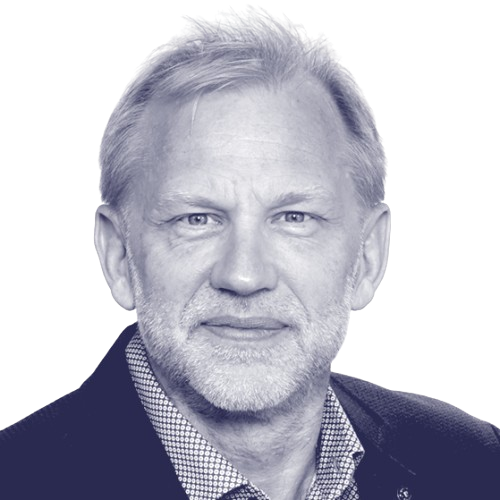
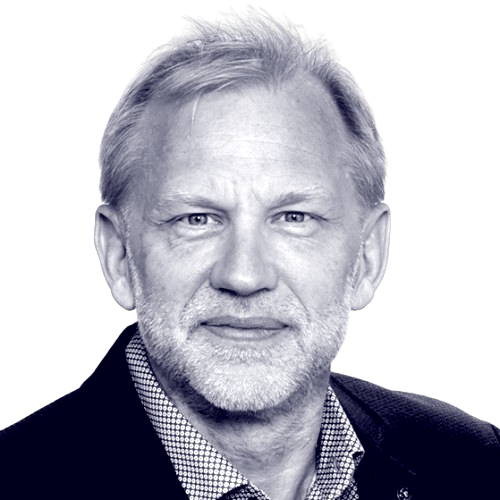
Replace Alexander's photo; shift team blobs down-left for Marion, Alexander and Doris
Claude-Session: https://claude.ai/code/session_01FksWvoVX87Zi3gCdiDvZYQ

diff --git a/index.html b/index.html
@@ -257,21 +257,21 @@
       </div>
       <div class="team-member">
         <div class="team-member__figure">
-          <svg viewBox="0 0 700 588" aria-hidden="true" focusable="false"><path fill="#46cbaf" d="M 518.63,260.73 C 518.29,264.82 517.70,268.85 517.47,272.92 C 517.23,277.00 517.22,281.05 517.22,285.18 C 517.23,289.31 517.60,293.52 517.49,297.70 C 517.38,301.88 517.34,306.18 516.54,310.25 C 515.75,314.33 514.41,318.35 512.71,322.15 C 511.02,325.96 508.54,329.50 506.39,333.07 C 504.24,336.65 501.87,340.06 499.82,343.62 C 497.77,347.18 496.10,350.88 494.09,354.42 C 492.09,357.97 490.18,361.60 487.80,364.89 C 485.41,368.18 482.54,371.16 479.77,374.15 C 477.01,377.13 473.94,379.82 471.20,382.78 C 468.46,385.73 465.98,388.86 463.32,391.87 C 460.67,394.89 458.17,398.09 455.26,400.86 C 452.36,403.63 449.10,406.05 445.89,408.47 C 442.69,410.90 439.21,412.91 436.03,415.39 C 432.86,417.86 429.89,420.56 426.84,423.30 C 423.79,426.05 420.94,429.20 417.74,431.84 C 414.54,434.48 411.13,436.91 407.62,439.14 C 404.12,441.38 400.38,443.15 396.74,445.27 C 393.09,447.39 389.49,449.66 385.78,451.88 C 382.07,454.10 378.39,456.74 374.47,458.58 C 370.55,460.42 366.42,461.99 362.23,462.89 C 358.05,463.80 353.65,463.86 349.35,464.01 C 345.05,464.16 340.73,463.84 336.45,463.79 C 332.17,463.73 327.92,463.76 323.67,463.67 C 319.42,463.57 315.17,463.51 310.93,463.22 C 306.69,462.93 302.47,462.45 298.25,461.91 C 294.04,461.37 289.84,460.74 285.66,459.98 C 281.48,459.21 277.29,458.42 273.19,457.34 C 269.08,456.26 265.01,454.97 261.04,453.50 C 257.06,452.03 253.16,450.29 249.32,448.51 C 245.48,446.73 241.69,444.83 237.99,442.81 C 234.29,440.78 230.65,438.65 227.11,436.36 C 223.58,434.08 220.19,431.59 216.81,429.12 C 213.43,426.65 210.13,424.10 206.84,421.54 C 203.55,418.98 200.20,416.50 197.06,413.77 C 193.93,411.05 190.83,408.23 188.02,405.19 C 185.20,402.14 182.64,398.81 180.16,395.49 C 177.68,392.18 175.38,388.72 173.11,385.29 C 170.83,381.85 168.56,378.45 166.52,374.91 C 164.48,371.37 162.59,367.73 160.89,364.04 C 159.18,360.34 157.83,356.48 156.28,352.75 C 154.74,349.03 153.25,345.34 151.62,341.69 C 149.99,338.04 148.06,334.55 146.50,330.88 C 144.94,327.21 143.40,323.49 142.26,319.68 C 141.11,315.86 140.47,311.88 139.64,307.98 C 138.81,304.08 138.18,300.17 137.27,296.29 C 136.37,292.40 135.13,288.58 134.21,284.66 C 133.28,280.75 132.29,276.80 131.72,272.81 C 131.14,268.82 131.03,264.77 130.73,260.73 C 130.44,256.69 130.30,252.65 129.97,248.54 C 129.64,244.44 128.88,240.26 128.76,236.11 C 128.64,231.96 128.53,227.69 129.26,223.64 C 129.98,219.59 131.57,215.65 133.12,211.80 C 134.66,207.96 136.88,204.34 138.54,200.58 C 140.20,196.82 141.65,193.05 143.10,189.24 C 144.55,185.42 145.66,181.47 147.23,177.70 C 148.79,173.93 150.58,170.24 152.50,166.63 C 154.42,163.02 156.62,159.57 158.74,156.06 C 160.86,152.56 162.92,149.00 165.21,145.60 C 167.50,142.20 169.84,138.78 172.49,135.66 C 175.13,132.53 178.16,129.70 181.10,126.85 C 184.05,124.00 187.17,121.35 190.15,118.55 C 193.14,115.75 195.95,112.76 199.00,110.03 C 202.06,107.31 205.16,104.57 208.50,102.22 C 211.85,99.86 215.55,98.00 219.07,95.91 C 222.59,93.82 226.21,91.98 229.63,89.66 C 233.04,87.35 236.18,84.53 239.56,82.00 C 242.94,79.46 246.25,76.53 249.91,74.43 C 253.57,72.34 257.53,70.75 261.51,69.43 C 265.50,68.11 269.72,67.52 273.81,66.52 C 277.89,65.53 281.96,64.59 286.04,63.47 C 290.12,62.35 294.16,60.97 298.29,59.80 C 302.42,58.64 306.59,57.48 310.82,56.50 C 315.05,55.52 319.35,54.54 323.67,53.93 C 327.99,53.32 332.42,52.65 336.75,52.83 C 341.08,53.01 345.47,53.76 349.66,55.03 C 353.84,56.30 357.86,58.66 361.87,60.46 C 365.88,62.27 369.71,64.37 373.71,65.86 C 377.70,67.34 381.84,68.07 385.85,69.35 C 389.87,70.63 394.05,71.60 397.79,73.52 C 401.54,75.43 404.98,78.19 408.32,80.85 C 411.66,83.50 414.58,86.83 417.82,89.46 C 421.07,92.10 424.45,94.32 427.79,96.66 C 431.13,99.01 434.76,100.94 437.89,103.52 C 441.02,106.10 443.81,109.18 446.57,112.17 C 449.33,115.16 451.60,118.62 454.43,121.48 C 457.27,124.35 460.43,126.78 463.56,129.36 C 466.70,131.95 470.42,134.09 473.24,136.99 C 476.06,139.90 478.47,143.27 480.48,146.80 C 482.48,150.33 483.50,154.53 485.28,158.17 C 487.07,161.81 488.84,165.32 491.17,168.64 C 493.51,171.96 496.76,174.80 499.29,178.09 C 501.83,181.38 504.58,184.71 506.38,188.39 C 508.17,192.07 509.07,196.18 510.05,200.17 C 511.02,204.16 511.34,208.32 512.21,212.32 C 513.08,216.32 514.25,220.21 515.28,224.18 C 516.32,228.15 517.71,232.09 518.42,236.13 C 519.13,240.17 519.49,244.31 519.53,248.41 C 519.57,252.51 518.98,256.64 518.63,260.73 Z"/></svg>
+          <svg viewBox="0 0 700 588" aria-hidden="true" focusable="false"><path fill="#46cbaf" transform="translate(-24 24)" d="M 518.63,260.73 C 518.29,264.82 517.70,268.85 517.47,272.92 C 517.23,277.00 517.22,281.05 517.22,285.18 C 517.23,289.31 517.60,293.52 517.49,297.70 C 517.38,301.88 517.34,306.18 516.54,310.25 C 515.75,314.33 514.41,318.35 512.71,322.15 C 511.02,325.96 508.54,329.50 506.39,333.07 C 504.24,336.65 501.87,340.06 499.82,343.62 C 497.77,347.18 496.10,350.88 494.09,354.42 C 492.09,357.97 490.18,361.60 487.80,364.89 C 485.41,368.18 482.54,371.16 479.77,374.15 C 477.01,377.13 473.94,379.82 471.20,382.78 C 468.46,385.73 465.98,388.86 463.32,391.87 C 460.67,394.89 458.17,398.09 455.26,400.86 C 452.36,403.63 449.10,406.05 445.89,408.47 C 442.69,410.90 439.21,412.91 436.03,415.39 C 432.86,417.86 429.89,420.56 426.84,423.30 C 423.79,426.05 420.94,429.20 417.74,431.84 C 414.54,434.48 411.13,436.91 407.62,439.14 C 404.12,441.38 400.38,443.15 396.74,445.27 C 393.09,447.39 389.49,449.66 385.78,451.88 C 382.07,454.10 378.39,456.74 374.47,458.58 C 370.55,460.42 366.42,461.99 362.23,462.89 C 358.05,463.80 353.65,463.86 349.35,464.01 C 345.05,464.16 340.73,463.84 336.45,463.79 C 332.17,463.73 327.92,463.76 323.67,463.67 C 319.42,463.57 315.17,463.51 310.93,463.22 C 306.69,462.93 302.47,462.45 298.25,461.91 C 294.04,461.37 289.84,460.74 285.66,459.98 C 281.48,459.21 277.29,458.42 273.19,457.34 C 269.08,456.26 265.01,454.97 261.04,453.50 C 257.06,452.03 253.16,450.29 249.32,448.51 C 245.48,446.73 241.69,444.83 237.99,442.81 C 234.29,440.78 230.65,438.65 227.11,436.36 C 223.58,434.08 220.19,431.59 216.81,429.12 C 213.43,426.65 210.13,424.10 206.84,421.54 C 203.55,418.98 200.20,416.50 197.06,413.77 C 193.93,411.05 190.83,408.23 188.02,405.19 C 185.20,402.14 182.64,398.81 180.16,395.49 C 177.68,392.18 175.38,388.72 173.11,385.29 C 170.83,381.85 168.56,378.45 166.52,374.91 C 164.48,371.37 162.59,367.73 160.89,364.04 C 159.18,360.34 157.83,356.48 156.28,352.75 C 154.74,349.03 153.25,345.34 151.62,341.69 C 149.99,338.04 148.06,334.55 146.50,330.88 C 144.94,327.21 143.40,323.49 142.26,319.68 C 141.11,315.86 140.47,311.88 139.64,307.98 C 138.81,304.08 138.18,300.17 137.27,296.29 C 136.37,292.40 135.13,288.58 134.21,284.66 C 133.28,280.75 132.29,276.80 131.72,272.81 C 131.14,268.82 131.03,264.77 130.73,260.73 C 130.44,256.69 130.30,252.65 129.97,248.54 C 129.64,244.44 128.88,240.26 128.76,236.11 C 128.64,231.96 128.53,227.69 129.26,223.64 C 129.98,219.59 131.57,215.65 133.12,211.80 C 134.66,207.96 136.88,204.34 138.54,200.58 C 140.20,196.82 141.65,193.05 143.10,189.24 C 144.55,185.42 145.66,181.47 147.23,177.70 C 148.79,173.93 150.58,170.24 152.50,166.63 C 154.42,163.02 156.62,159.57 158.74,156.06 C 160.86,152.56 162.92,149.00 165.21,145.60 C 167.50,142.20 169.84,138.78 172.49,135.66 C 175.13,132.53 178.16,129.70 181.10,126.85 C 184.05,124.00 187.17,121.35 190.15,118.55 C 193.14,115.75 195.95,112.76 199.00,110.03 C 202.06,107.31 205.16,104.57 208.50,102.22 C 211.85,99.86 215.55,98.00 219.07,95.91 C 222.59,93.82 226.21,91.98 229.63,89.66 C 233.04,87.35 236.18,84.53 239.56,82.00 C 242.94,79.46 246.25,76.53 249.91,74.43 C 253.57,72.34 257.53,70.75 261.51,69.43 C 265.50,68.11 269.72,67.52 273.81,66.52 C 277.89,65.53 281.96,64.59 286.04,63.47 C 290.12,62.35 294.16,60.97 298.29,59.80 C 302.42,58.64 306.59,57.48 310.82,56.50 C 315.05,55.52 319.35,54.54 323.67,53.93 C 327.99,53.32 332.42,52.65 336.75,52.83 C 341.08,53.01 345.47,53.76 349.66,55.03 C 353.84,56.30 357.86,58.66 361.87,60.46 C 365.88,62.27 369.71,64.37 373.71,65.86 C 377.70,67.34 381.84,68.07 385.85,69.35 C 389.87,70.63 394.05,71.60 397.79,73.52 C 401.54,75.43 404.98,78.19 408.32,80.85 C 411.66,83.50 414.58,86.83 417.82,89.46 C 421.07,92.10 424.45,94.32 427.79,96.66 C 431.13,99.01 434.76,100.94 437.89,103.52 C 441.02,106.10 443.81,109.18 446.57,112.17 C 449.33,115.16 451.60,118.62 454.43,121.48 C 457.27,124.35 460.43,126.78 463.56,129.36 C 466.70,131.95 470.42,134.09 473.24,136.99 C 476.06,139.90 478.47,143.27 480.48,146.80 C 482.48,150.33 483.50,154.53 485.28,158.17 C 487.07,161.81 488.84,165.32 491.17,168.64 C 493.51,171.96 496.76,174.80 499.29,178.09 C 501.83,181.38 504.58,184.71 506.38,188.39 C 508.17,192.07 509.07,196.18 510.05,200.17 C 511.02,204.16 511.34,208.32 512.21,212.32 C 513.08,216.32 514.25,220.21 515.28,224.18 C 516.32,228.15 517.71,232.09 518.42,236.13 C 519.13,240.17 519.49,244.31 519.53,248.41 C 519.57,252.51 518.98,256.64 518.63,260.73 Z"/></svg>
           <img src="assets/team-marion.png" alt="Marion Kammerer" width="500" height="500" loading="lazy">
         </div>
         <p class="team-member__name">Marion Kammerer</p>
       </div>
       <div class="team-member">
         <div class="team-member__figure">
-          <svg viewBox="0 0 700 588" aria-hidden="true" focusable="false"><path fill="#46cbaf" d="M 519.02,260.73 C 519.27,264.81 519.21,268.94 518.86,273.01 C 518.52,277.08 517.66,281.12 516.95,285.15 C 516.25,289.17 515.38,293.15 514.62,297.16 C 513.87,301.16 513.32,305.21 512.42,309.19 C 511.53,313.17 510.62,317.19 509.27,321.04 C 507.93,324.88 506.17,328.62 504.34,332.26 C 502.52,335.91 500.36,339.41 498.31,342.91 C 496.25,346.41 494.15,349.86 492.00,353.27 C 489.85,356.68 487.66,360.05 485.40,363.37 C 483.14,366.68 480.77,369.91 478.44,373.18 C 476.11,376.44 473.81,379.72 471.43,382.97 C 469.05,386.21 466.75,389.56 464.17,392.67 C 461.59,395.77 458.86,398.80 455.95,401.59 C 453.04,404.39 449.84,406.90 446.69,409.44 C 443.55,411.98 440.28,414.34 437.08,416.82 C 433.88,419.30 430.71,421.82 427.50,424.33 C 424.28,426.85 421.08,429.41 417.78,431.91 C 414.48,434.40 411.15,436.92 407.69,439.29 C 404.24,441.65 400.74,444.06 397.06,446.10 C 393.39,448.13 389.56,449.97 385.65,451.49 C 381.74,453.01 377.64,454.03 373.60,455.19 C 369.56,456.36 365.47,457.27 361.39,458.47 C 357.32,459.68 353.28,461.19 349.15,462.41 C 345.01,463.63 340.82,465.05 336.57,465.82 C 332.33,466.58 327.98,466.86 323.67,466.98 C 319.36,467.10 315.04,466.69 310.72,466.54 C 306.40,466.39 302.06,466.37 297.73,466.07 C 293.40,465.77 288.98,465.68 284.75,464.77 C 280.52,463.86 276.33,462.40 272.35,460.61 C 268.37,458.82 264.62,456.25 260.86,454.03 C 257.11,451.81 253.47,449.47 249.81,447.29 C 246.14,445.11 242.43,443.17 238.87,440.93 C 235.32,438.69 231.87,436.30 228.49,433.87 C 225.10,431.43 221.93,428.73 218.58,426.33 C 215.23,423.92 211.79,421.72 208.37,419.42 C 204.96,417.12 201.32,415.08 198.10,412.52 C 194.88,409.96 191.86,407.09 189.06,404.08 C 186.26,401.06 183.90,397.61 181.30,394.42 C 178.71,391.24 176.12,388.10 173.50,384.96 C 170.88,381.82 168.05,378.84 165.59,375.58 C 163.13,372.32 160.96,368.83 158.73,365.41 C 156.49,361.98 154.61,358.38 152.15,355.02 C 149.70,351.67 146.73,348.59 144.00,345.28 C 141.26,341.96 137.82,338.82 135.76,335.13 C 133.69,331.44 132.23,327.33 131.61,323.13 C 130.99,318.94 131.85,314.26 132.02,309.94 C 132.18,305.61 132.79,301.32 132.61,297.18 C 132.42,293.03 131.43,289.12 130.91,285.08 C 130.39,281.04 129.54,277.01 129.49,272.95 C 129.43,268.89 130.05,264.77 130.57,260.73 C 131.10,256.69 132.01,252.70 132.63,248.71 C 133.24,244.72 133.56,240.74 134.25,236.80 C 134.95,232.86 135.72,228.92 136.81,225.09 C 137.91,221.25 139.58,217.56 140.81,213.78 C 142.05,210.00 143.27,206.29 144.24,202.43 C 145.20,198.57 145.56,194.49 146.59,190.62 C 147.61,186.75 148.71,182.81 150.41,179.20 C 152.10,175.59 154.59,172.33 156.73,168.95 C 158.87,165.58 161.24,162.38 163.27,158.93 C 165.29,155.49 166.81,151.70 168.89,148.28 C 170.98,144.85 173.08,141.33 175.77,138.38 C 178.46,135.42 181.93,133.09 185.03,130.54 C 188.13,127.98 191.53,125.84 194.37,123.04 C 197.21,120.24 199.50,116.92 202.06,113.73 C 204.62,110.54 206.87,106.84 209.73,103.90 C 212.58,100.96 215.87,98.46 219.19,96.10 C 222.52,93.75 226.24,92.01 229.69,89.78 C 233.14,87.54 236.47,85.13 239.90,82.71 C 243.32,80.29 246.64,77.49 250.24,75.26 C 253.84,73.04 257.65,71.14 261.49,69.37 C 265.34,67.60 269.36,66.29 273.33,64.66 C 277.30,63.04 281.24,61.18 285.31,59.63 C 289.37,58.08 293.50,56.26 297.73,55.36 C 301.95,54.45 306.35,54.19 310.68,54.22 C 315.00,54.25 319.36,55.19 323.67,55.53 C 327.98,55.87 332.22,56.24 336.53,56.26 C 340.85,56.28 345.21,55.69 349.58,55.66 C 353.94,55.63 358.41,55.48 362.70,56.10 C 367.00,56.73 371.26,57.94 375.36,59.41 C 379.46,60.88 383.40,62.96 387.30,64.90 C 391.20,66.85 394.98,69.01 398.76,71.07 C 402.55,73.13 406.30,75.16 410.00,77.26 C 413.71,79.37 417.42,81.42 421.00,83.69 C 424.58,85.96 428.11,88.31 431.47,90.87 C 434.82,93.43 438.00,96.25 441.13,99.06 C 444.26,101.87 447.21,104.86 450.23,107.75 C 453.24,110.64 456.31,113.43 459.22,116.38 C 462.14,119.33 465.15,122.21 467.70,125.47 C 470.25,128.73 472.52,132.29 474.52,135.93 C 476.52,139.58 477.98,143.62 479.71,147.36 C 481.45,151.10 483.05,154.82 484.94,158.38 C 486.84,161.94 489.10,165.22 491.07,168.70 C 493.04,172.19 495.15,175.63 496.76,179.28 C 498.37,182.93 499.57,186.80 500.75,190.62 C 501.93,194.44 502.73,198.37 503.83,202.19 C 504.94,206.01 506.15,209.77 507.39,213.56 C 508.63,217.35 510.06,221.10 511.28,224.94 C 512.49,228.78 513.66,232.67 514.68,236.60 C 515.69,240.53 516.63,244.52 517.36,248.54 C 518.08,252.57 518.77,256.65 519.02,260.73 Z"/></svg>
+          <svg viewBox="0 0 700 588" aria-hidden="true" focusable="false"><path fill="#46cbaf" transform="translate(-24 24)" d="M 519.02,260.73 C 519.27,264.81 519.21,268.94 518.86,273.01 C 518.52,277.08 517.66,281.12 516.95,285.15 C 516.25,289.17 515.38,293.15 514.62,297.16 C 513.87,301.16 513.32,305.21 512.42,309.19 C 511.53,313.17 510.62,317.19 509.27,321.04 C 507.93,324.88 506.17,328.62 504.34,332.26 C 502.52,335.91 500.36,339.41 498.31,342.91 C 496.25,346.41 494.15,349.86 492.00,353.27 C 489.85,356.68 487.66,360.05 485.40,363.37 C 483.14,366.68 480.77,369.91 478.44,373.18 C 476.11,376.44 473.81,379.72 471.43,382.97 C 469.05,386.21 466.75,389.56 464.17,392.67 C 461.59,395.77 458.86,398.80 455.95,401.59 C 453.04,404.39 449.84,406.90 446.69,409.44 C 443.55,411.98 440.28,414.34 437.08,416.82 C 433.88,419.30 430.71,421.82 427.50,424.33 C 424.28,426.85 421.08,429.41 417.78,431.91 C 414.48,434.40 411.15,436.92 407.69,439.29 C 404.24,441.65 400.74,444.06 397.06,446.10 C 393.39,448.13 389.56,449.97 385.65,451.49 C 381.74,453.01 377.64,454.03 373.60,455.19 C 369.56,456.36 365.47,457.27 361.39,458.47 C 357.32,459.68 353.28,461.19 349.15,462.41 C 345.01,463.63 340.82,465.05 336.57,465.82 C 332.33,466.58 327.98,466.86 323.67,466.98 C 319.36,467.10 315.04,466.69 310.72,466.54 C 306.40,466.39 302.06,466.37 297.73,466.07 C 293.40,465.77 288.98,465.68 284.75,464.77 C 280.52,463.86 276.33,462.40 272.35,460.61 C 268.37,458.82 264.62,456.25 260.86,454.03 C 257.11,451.81 253.47,449.47 249.81,447.29 C 246.14,445.11 242.43,443.17 238.87,440.93 C 235.32,438.69 231.87,436.30 228.49,433.87 C 225.10,431.43 221.93,428.73 218.58,426.33 C 215.23,423.92 211.79,421.72 208.37,419.42 C 204.96,417.12 201.32,415.08 198.10,412.52 C 194.88,409.96 191.86,407.09 189.06,404.08 C 186.26,401.06 183.90,397.61 181.30,394.42 C 178.71,391.24 176.12,388.10 173.50,384.96 C 170.88,381.82 168.05,378.84 165.59,375.58 C 163.13,372.32 160.96,368.83 158.73,365.41 C 156.49,361.98 154.61,358.38 152.15,355.02 C 149.70,351.67 146.73,348.59 144.00,345.28 C 141.26,341.96 137.82,338.82 135.76,335.13 C 133.69,331.44 132.23,327.33 131.61,323.13 C 130.99,318.94 131.85,314.26 132.02,309.94 C 132.18,305.61 132.79,301.32 132.61,297.18 C 132.42,293.03 131.43,289.12 130.91,285.08 C 130.39,281.04 129.54,277.01 129.49,272.95 C 129.43,268.89 130.05,264.77 130.57,260.73 C 131.10,256.69 132.01,252.70 132.63,248.71 C 133.24,244.72 133.56,240.74 134.25,236.80 C 134.95,232.86 135.72,228.92 136.81,225.09 C 137.91,221.25 139.58,217.56 140.81,213.78 C 142.05,210.00 143.27,206.29 144.24,202.43 C 145.20,198.57 145.56,194.49 146.59,190.62 C 147.61,186.75 148.71,182.81 150.41,179.20 C 152.10,175.59 154.59,172.33 156.73,168.95 C 158.87,165.58 161.24,162.38 163.27,158.93 C 165.29,155.49 166.81,151.70 168.89,148.28 C 170.98,144.85 173.08,141.33 175.77,138.38 C 178.46,135.42 181.93,133.09 185.03,130.54 C 188.13,127.98 191.53,125.84 194.37,123.04 C 197.21,120.24 199.50,116.92 202.06,113.73 C 204.62,110.54 206.87,106.84 209.73,103.90 C 212.58,100.96 215.87,98.46 219.19,96.10 C 222.52,93.75 226.24,92.01 229.69,89.78 C 233.14,87.54 236.47,85.13 239.90,82.71 C 243.32,80.29 246.64,77.49 250.24,75.26 C 253.84,73.04 257.65,71.14 261.49,69.37 C 265.34,67.60 269.36,66.29 273.33,64.66 C 277.30,63.04 281.24,61.18 285.31,59.63 C 289.37,58.08 293.50,56.26 297.73,55.36 C 301.95,54.45 306.35,54.19 310.68,54.22 C 315.00,54.25 319.36,55.19 323.67,55.53 C 327.98,55.87 332.22,56.24 336.53,56.26 C 340.85,56.28 345.21,55.69 349.58,55.66 C 353.94,55.63 358.41,55.48 362.70,56.10 C 367.00,56.73 371.26,57.94 375.36,59.41 C 379.46,60.88 383.40,62.96 387.30,64.90 C 391.20,66.85 394.98,69.01 398.76,71.07 C 402.55,73.13 406.30,75.16 410.00,77.26 C 413.71,79.37 417.42,81.42 421.00,83.69 C 424.58,85.96 428.11,88.31 431.47,90.87 C 434.82,93.43 438.00,96.25 441.13,99.06 C 444.26,101.87 447.21,104.86 450.23,107.75 C 453.24,110.64 456.31,113.43 459.22,116.38 C 462.14,119.33 465.15,122.21 467.70,125.47 C 470.25,128.73 472.52,132.29 474.52,135.93 C 476.52,139.58 477.98,143.62 479.71,147.36 C 481.45,151.10 483.05,154.82 484.94,158.38 C 486.84,161.94 489.10,165.22 491.07,168.70 C 493.04,172.19 495.15,175.63 496.76,179.28 C 498.37,182.93 499.57,186.80 500.75,190.62 C 501.93,194.44 502.73,198.37 503.83,202.19 C 504.94,206.01 506.15,209.77 507.39,213.56 C 508.63,217.35 510.06,221.10 511.28,224.94 C 512.49,228.78 513.66,232.67 514.68,236.60 C 515.69,240.53 516.63,244.52 517.36,248.54 C 518.08,252.57 518.77,256.65 519.02,260.73 Z"/></svg>
           <img src="assets/team-alexander.png" alt="Alexander Schreibmaier" width="500" height="500" loading="lazy">
         </div>
         <p class="team-member__name">Alexander Schreibmaier</p>
       </div>
       <div class="team-member">
         <div class="team-member__figure">
-          <svg viewBox="0 0 700 588" aria-hidden="true" focusable="false"><path fill="#46cbaf" d="M 512.15,260.73 C 511.61,264.68 510.83,268.57 510.30,272.47 C 509.76,276.37 509.31,280.23 508.93,284.13 C 508.55,288.04 508.39,291.96 508.04,295.90 C 507.69,299.84 507.43,303.83 506.82,307.75 C 506.20,311.68 505.37,315.59 504.35,319.44 C 503.34,323.29 501.98,327.03 500.74,330.84 C 499.51,334.64 498.20,338.42 496.93,342.26 C 495.66,346.10 494.57,350.07 493.11,353.88 C 491.64,357.68 490.09,361.53 488.12,365.09 C 486.14,368.65 483.67,371.94 481.26,375.23 C 478.85,378.51 476.07,381.50 473.67,384.82 C 471.27,388.15 469.04,391.58 466.85,395.18 C 464.65,398.79 462.80,402.78 460.51,406.45 C 458.23,410.13 455.88,413.90 453.15,417.24 C 450.41,420.58 447.28,423.57 444.10,426.49 C 440.92,429.40 437.48,432.01 434.09,434.72 C 430.69,437.43 427.29,440.18 423.74,442.75 C 420.19,445.32 416.60,447.96 412.80,450.14 C 408.99,452.31 404.99,454.23 400.91,455.81 C 396.82,457.39 392.54,458.55 388.29,459.61 C 384.04,460.67 379.71,461.50 375.39,462.17 C 371.07,462.84 366.73,463.42 362.37,463.61 C 358.02,463.80 353.61,463.70 349.26,463.31 C 344.91,462.92 340.55,462.03 336.29,461.28 C 332.02,460.53 327.83,459.50 323.67,458.79 C 319.51,458.08 315.42,457.57 311.32,457.03 C 307.22,456.48 303.12,456.20 299.06,455.52 C 295.01,454.85 290.97,454.01 286.99,452.99 C 283.02,451.96 279.15,450.55 275.23,449.38 C 271.31,448.21 267.45,447.00 263.49,445.95 C 259.53,444.89 255.47,444.14 251.48,443.05 C 247.50,441.97 243.44,440.91 239.57,439.45 C 235.70,437.99 231.97,436.14 228.25,434.29 C 224.54,432.45 220.95,430.36 217.28,428.37 C 213.61,426.38 209.81,424.54 206.25,422.34 C 202.69,420.15 199.05,417.92 195.89,415.19 C 192.74,412.45 189.98,409.17 187.34,405.91 C 184.69,402.65 182.55,398.93 180.04,395.60 C 177.54,392.28 174.95,389.11 172.30,385.96 C 169.64,382.80 166.55,379.97 164.09,376.67 C 161.64,373.37 159.30,369.89 157.56,366.14 C 155.82,362.40 154.82,358.19 153.66,354.19 C 152.51,350.19 151.76,346.07 150.61,342.17 C 149.46,338.26 148.01,334.57 146.76,330.77 C 145.50,326.98 144.04,323.26 143.07,319.41 C 142.11,315.55 141.55,311.57 140.95,307.65 C 140.35,303.72 140.13,299.76 139.47,295.87 C 138.82,291.98 137.90,288.18 137.04,284.31 C 136.18,280.44 134.91,276.57 134.31,272.64 C 133.71,268.71 133.35,264.70 133.44,260.73 C 133.52,256.76 134.26,252.78 134.81,248.85 C 135.37,244.91 136.22,241.04 136.77,237.12 C 137.32,233.20 137.68,229.28 138.10,225.33 C 138.53,221.38 138.79,217.37 139.35,213.40 C 139.91,209.44 140.61,205.46 141.48,201.53 C 142.35,197.60 143.47,193.72 144.57,189.82 C 145.67,185.91 146.88,182.04 148.09,178.11 C 149.29,174.18 150.46,170.19 151.80,166.24 C 153.13,162.29 154.47,158.26 156.11,154.39 C 157.75,150.52 159.58,146.69 161.64,143.01 C 163.69,139.32 166.04,135.80 168.43,132.30 C 170.81,128.80 173.35,125.39 175.95,122.02 C 178.56,118.64 181.17,115.20 184.07,112.07 C 186.97,108.94 190.04,105.88 193.38,103.23 C 196.71,100.58 200.44,98.36 204.11,96.17 C 207.77,93.97 211.68,92.17 215.38,90.09 C 219.08,88.00 222.66,85.79 226.32,83.65 C 229.98,81.51 233.52,79.08 237.33,77.25 C 241.15,75.42 245.15,73.89 249.21,72.68 C 253.28,71.47 257.58,70.94 261.70,70.00 C 265.82,69.06 269.90,68.22 273.93,67.01 C 277.97,65.81 281.85,64.02 285.91,62.77 C 289.96,61.52 294.07,60.08 298.25,59.54 C 302.44,59.00 306.78,59.21 311.01,59.55 C 315.25,59.88 319.49,61.02 323.67,61.57 C 327.85,62.12 331.96,62.60 336.12,62.83 C 340.28,63.07 344.47,62.76 348.65,62.96 C 352.83,63.16 357.08,63.30 361.20,64.01 C 365.31,64.73 369.37,65.96 373.34,67.28 C 377.31,68.59 381.15,70.35 385.02,71.92 C 388.88,73.49 392.70,75.10 396.54,76.68 C 400.38,78.26 404.27,79.70 408.05,81.42 C 411.82,83.13 415.63,84.86 419.20,86.97 C 422.76,89.08 426.18,91.50 429.44,94.07 C 432.69,96.63 435.64,99.63 438.72,102.37 C 441.81,105.12 444.71,107.98 447.94,110.51 C 451.18,113.04 454.65,115.23 458.12,117.56 C 461.59,119.89 465.46,121.89 468.76,124.48 C 472.07,127.07 475.30,129.89 477.95,133.09 C 480.61,136.30 482.66,140.07 484.72,143.72 C 486.77,147.37 488.41,151.28 490.29,154.99 C 492.17,158.70 494.20,162.28 495.98,166.00 C 497.76,169.72 499.67,173.40 500.97,177.30 C 502.27,181.20 503.09,185.34 503.79,189.42 C 504.49,193.49 504.58,197.73 505.15,201.76 C 505.73,205.79 506.34,209.71 507.23,213.60 C 508.12,217.49 509.51,221.23 510.49,225.09 C 511.47,228.96 512.61,232.85 513.12,236.80 C 513.63,240.75 513.71,244.79 513.55,248.78 C 513.39,252.77 512.69,256.78 512.15,260.73 Z"/></svg>
+          <svg viewBox="0 0 700 588" aria-hidden="true" focusable="false"><path fill="#46cbaf" transform="translate(-24 24)" d="M 512.15,260.73 C 511.61,264.68 510.83,268.57 510.30,272.47 C 509.76,276.37 509.31,280.23 508.93,284.13 C 508.55,288.04 508.39,291.96 508.04,295.90 C 507.69,299.84 507.43,303.83 506.82,307.75 C 506.20,311.68 505.37,315.59 504.35,319.44 C 503.34,323.29 501.98,327.03 500.74,330.84 C 499.51,334.64 498.20,338.42 496.93,342.26 C 495.66,346.10 494.57,350.07 493.11,353.88 C 491.64,357.68 490.09,361.53 488.12,365.09 C 486.14,368.65 483.67,371.94 481.26,375.23 C 478.85,378.51 476.07,381.50 473.67,384.82 C 471.27,388.15 469.04,391.58 466.85,395.18 C 464.65,398.79 462.80,402.78 460.51,406.45 C 458.23,410.13 455.88,413.90 453.15,417.24 C 450.41,420.58 447.28,423.57 444.10,426.49 C 440.92,429.40 437.48,432.01 434.09,434.72 C 430.69,437.43 427.29,440.18 423.74,442.75 C 420.19,445.32 416.60,447.96 412.80,450.14 C 408.99,452.31 404.99,454.23 400.91,455.81 C 396.82,457.39 392.54,458.55 388.29,459.61 C 384.04,460.67 379.71,461.50 375.39,462.17 C 371.07,462.84 366.73,463.42 362.37,463.61 C 358.02,463.80 353.61,463.70 349.26,463.31 C 344.91,462.92 340.55,462.03 336.29,461.28 C 332.02,460.53 327.83,459.50 323.67,458.79 C 319.51,458.08 315.42,457.57 311.32,457.03 C 307.22,456.48 303.12,456.20 299.06,455.52 C 295.01,454.85 290.97,454.01 286.99,452.99 C 283.02,451.96 279.15,450.55 275.23,449.38 C 271.31,448.21 267.45,447.00 263.49,445.95 C 259.53,444.89 255.47,444.14 251.48,443.05 C 247.50,441.97 243.44,440.91 239.57,439.45 C 235.70,437.99 231.97,436.14 228.25,434.29 C 224.54,432.45 220.95,430.36 217.28,428.37 C 213.61,426.38 209.81,424.54 206.25,422.34 C 202.69,420.15 199.05,417.92 195.89,415.19 C 192.74,412.45 189.98,409.17 187.34,405.91 C 184.69,402.65 182.55,398.93 180.04,395.60 C 177.54,392.28 174.95,389.11 172.30,385.96 C 169.64,382.80 166.55,379.97 164.09,376.67 C 161.64,373.37 159.30,369.89 157.56,366.14 C 155.82,362.40 154.82,358.19 153.66,354.19 C 152.51,350.19 151.76,346.07 150.61,342.17 C 149.46,338.26 148.01,334.57 146.76,330.77 C 145.50,326.98 144.04,323.26 143.07,319.41 C 142.11,315.55 141.55,311.57 140.95,307.65 C 140.35,303.72 140.13,299.76 139.47,295.87 C 138.82,291.98 137.90,288.18 137.04,284.31 C 136.18,280.44 134.91,276.57 134.31,272.64 C 133.71,268.71 133.35,264.70 133.44,260.73 C 133.52,256.76 134.26,252.78 134.81,248.85 C 135.37,244.91 136.22,241.04 136.77,237.12 C 137.32,233.20 137.68,229.28 138.10,225.33 C 138.53,221.38 138.79,217.37 139.35,213.40 C 139.91,209.44 140.61,205.46 141.48,201.53 C 142.35,197.60 143.47,193.72 144.57,189.82 C 145.67,185.91 146.88,182.04 148.09,178.11 C 149.29,174.18 150.46,170.19 151.80,166.24 C 153.13,162.29 154.47,158.26 156.11,154.39 C 157.75,150.52 159.58,146.69 161.64,143.01 C 163.69,139.32 166.04,135.80 168.43,132.30 C 170.81,128.80 173.35,125.39 175.95,122.02 C 178.56,118.64 181.17,115.20 184.07,112.07 C 186.97,108.94 190.04,105.88 193.38,103.23 C 196.71,100.58 200.44,98.36 204.11,96.17 C 207.77,93.97 211.68,92.17 215.38,90.09 C 219.08,88.00 222.66,85.79 226.32,83.65 C 229.98,81.51 233.52,79.08 237.33,77.25 C 241.15,75.42 245.15,73.89 249.21,72.68 C 253.28,71.47 257.58,70.94 261.70,70.00 C 265.82,69.06 269.90,68.22 273.93,67.01 C 277.97,65.81 281.85,64.02 285.91,62.77 C 289.96,61.52 294.07,60.08 298.25,59.54 C 302.44,59.00 306.78,59.21 311.01,59.55 C 315.25,59.88 319.49,61.02 323.67,61.57 C 327.85,62.12 331.96,62.60 336.12,62.83 C 340.28,63.07 344.47,62.76 348.65,62.96 C 352.83,63.16 357.08,63.30 361.20,64.01 C 365.31,64.73 369.37,65.96 373.34,67.28 C 377.31,68.59 381.15,70.35 385.02,71.92 C 388.88,73.49 392.70,75.10 396.54,76.68 C 400.38,78.26 404.27,79.70 408.05,81.42 C 411.82,83.13 415.63,84.86 419.20,86.97 C 422.76,89.08 426.18,91.50 429.44,94.07 C 432.69,96.63 435.64,99.63 438.72,102.37 C 441.81,105.12 444.71,107.98 447.94,110.51 C 451.18,113.04 454.65,115.23 458.12,117.56 C 461.59,119.89 465.46,121.89 468.76,124.48 C 472.07,127.07 475.30,129.89 477.95,133.09 C 480.61,136.30 482.66,140.07 484.72,143.72 C 486.77,147.37 488.41,151.28 490.29,154.99 C 492.17,158.70 494.20,162.28 495.98,166.00 C 497.76,169.72 499.67,173.40 500.97,177.30 C 502.27,181.20 503.09,185.34 503.79,189.42 C 504.49,193.49 504.58,197.73 505.15,201.76 C 505.73,205.79 506.34,209.71 507.23,213.60 C 508.12,217.49 509.51,221.23 510.49,225.09 C 511.47,228.96 512.61,232.85 513.12,236.80 C 513.63,240.75 513.71,244.79 513.55,248.78 C 513.39,252.77 512.69,256.78 512.15,260.73 Z"/></svg>
           <img src="assets/team-doris.png" alt="Doris Schreibmaier" width="500" height="500" loading="lazy">
         </div>
         <p class="team-member__name">Doris Schreibmaier</p>
